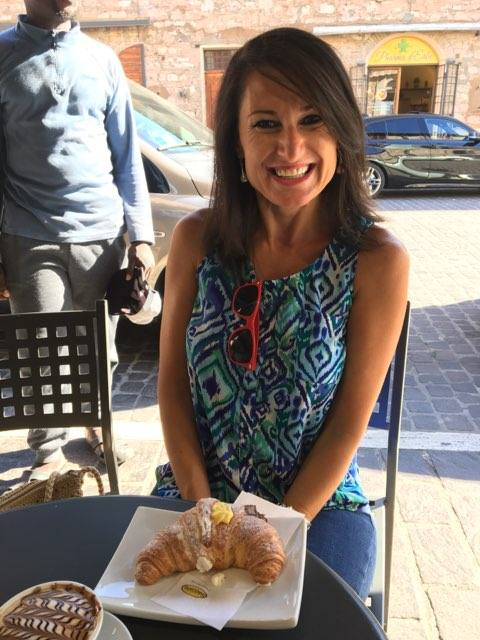
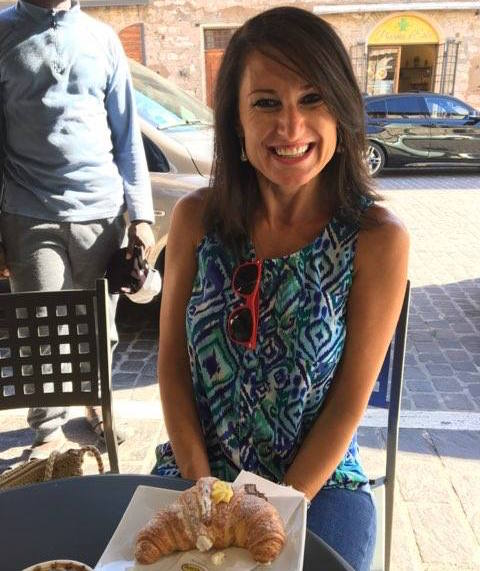
changed Leona image, left-aligned nav links, edited text in About and Lessons sections

diff --git a/index.html b/index.html
@@ -57,13 +57,11 @@
         <div class="section-container">
             <h3 class="section-title">About Leona</h3>
             <div class="text-container col-8">
-                <p>Having grown up in Rome, Leona immigrated to the United States in 2010. Although fluent in four languages,
-                    Italian is her greatest love. She has experience working as a translator, and has been teaching Italian
-                    to eager students for more than seven years now. Leona’s students love their lessons, look forward to
-                    every session, and, most importantly,
-                    <span class="text-accent">reach their goals</span>—whether they be communicating with family, preparing for travel, launching an
-                    international business, working towards Italian citizenship, or expressing love (even wedding vows!)
-                    with the most passionate words.</p>
+                <p>Having grown up in Rome, Leona immigrated to the United States in 2010. She has extensive experience as a
+                    translator, is fluent in four languages, and has been teaching Italian for more than seven years. Leona’s
+                    students love their lessons, look forward to every session, and, most importantly, reach their goals—whether
+                    they be to communicate with family, prepare for travel, launch an international business, attain Italian
+                    citizenship, or express love (even wedding vows!) with the most passionate words.</p>
                 <br />
                 <p>
                     <span class="text-accent">Read the testimonials</span> from her students to see how they achieved their goals as they developed
@@ -71,7 +69,7 @@
                 </p>
             </div>
             <div class="image-wrapper col-4">
-                <img src="images/leona-2.JPG" alt="Leona at a cafe in Rome" />
+                <img src="images/leona-6.JPG" alt="Leona at a cafe in Rome" />
             </div>
         </div>
     </section>
@@ -81,13 +79,13 @@
             <h3 class="section-title">Italian Lessons</h3>
             <div class="method col-6">
                 <h4 class="subtitle">Unique Lesson Style</h4>
-                <p>The key is flexibility, energy, and a comfortable environment. Leona meets her students in convenient locations
-                    that help them relax—coffee shops, bookstores, happy hours, and even Skype when a face-to-face is difficult.
-                    Singles, couples, and group rates are available, weekday evenings and Saturday mornings. Lessons are
-                    highly conversational with an emphasis on proper grammar and recitation until pronunciation and inflection
-                    are correct. Students read topical articles, talk about their days and families, and hear all about Italian
-                    places and customs with tips for getting around town…in a combination of Italian and English that changes
-                    as students grow more confident.</p>
+                <p>The keys to success are flexibility, energy, and a comfortable environment. Leona meets her students in convenient
+                    locations that help them relax—coffee shops, bookstores, happy hours, and even Skype when a face-to-face
+                    is difficult. Singles, couples, and group rates are available for weekday evenings and Saturday mornings.
+                    Lessons are highly conversational with an emphasis on proper grammar and recitation until pronunciation
+                    and inflection are correct. Students read topical articles, discuss their days and families, and hear
+                    all about Italian places and customs with tips for getting around town…in a combination of Italian and
+                    English that changes as students grow more confident.</p>
             </div>
             <div class="logistics col-6">
                 <h4 class="subtitle">Typical Costs</h4>
@@ -98,16 +96,16 @@
                         <span class="cost-label">Children:</span> $45/hour</li>
                     <li>
                         <span class="cost-label">Couples &#38 Groups:</span> Call and we'll figure something out</li>
-                    <!-- <li>
-                        <span class="cost-label">Travel:</span> free if in the S. Tampa area; premium fee for reasonable distance</li> -->
                     <li>
-                        <span class="cost-label">Workbook:</span> Approx. $15, order directly from Amazon</li>
+                        <span class="cost-label">Travel:</span> Free if in the S. Tampa area, or a premium fee for reasonable distance</li>
                     <li>
-                        <span class="cost-label">Glasses of wine:</span> You're on your own!</li>
+                        <span class="cost-label">Workbook:</span> Approximately $15, ordered directly from Amazon</li>
+                    <li>
+                        <span class="cost-label">Glasses of Wine:</span> You're on your own!</li>
                     <li>
                         <span class="cost-label">Cancellation Fee:</span> None, but please be respectful</li>
                     <li>
-                        <span class="cost-label">Homework:</span> Yes, but fun (i.e. watching Italian YouTube for songs and movies with subtitles).</li>
+                        <span class="cost-label">Homework:</span> Yes, but it's fun, such as searching YouTube for Italian songs and subtitled movies</li>
                 </ul>
             </div>
             <!--

diff --git a/main.css b/main.css
@@ -64,7 +64,7 @@ nav ul {
 nav ul,
 nav ul.responsive {
     list-style: none;
-    float: right;
+    /* float: right; */
 }
 
 nav li,
